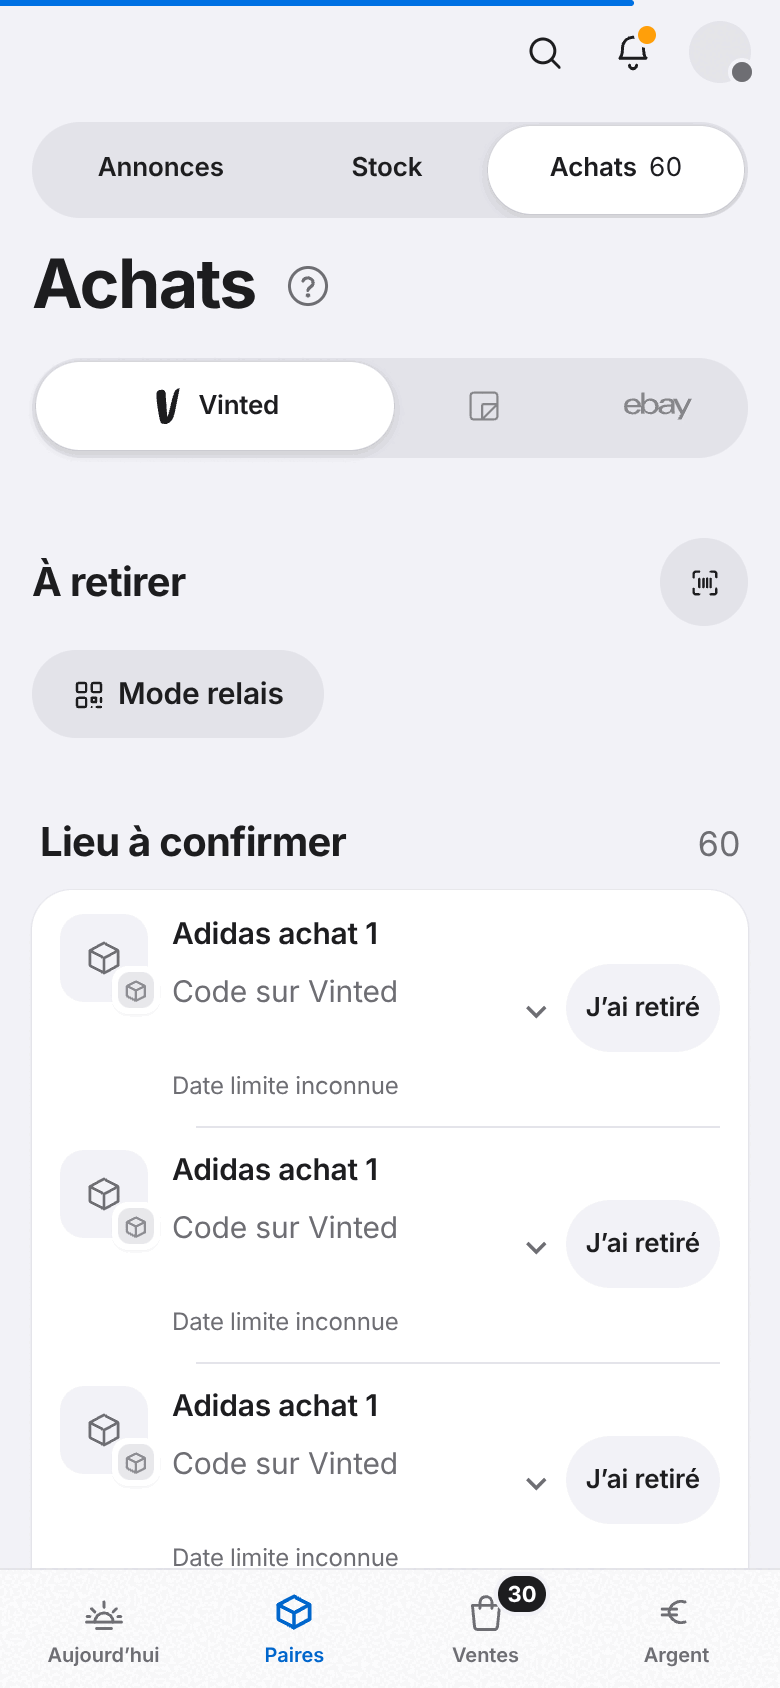
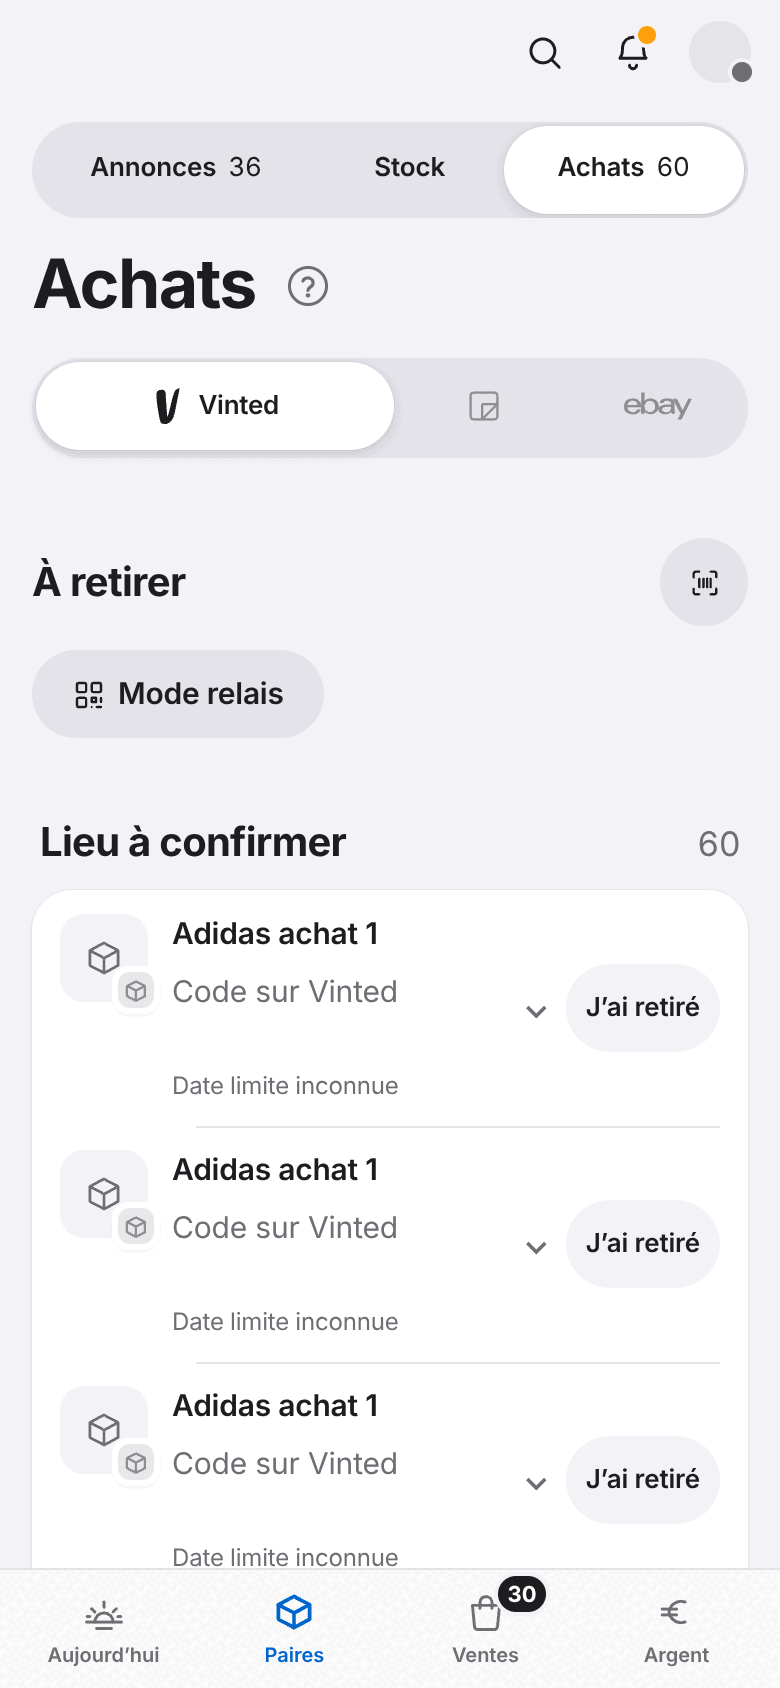
Coque : point ambre de la cloche aussi sur Ma journée ; captures avant/après finales ; récit à jour
Claude-Session: https://claude.ai/code/session_012UsEbcF3XbBnmXpwYyNnbn

diff --git a/src/styles-systeme.css b/src/styles-systeme.css
@@ -657,7 +657,7 @@
   top: 6px !important; left: 24px !important; right: auto !important; box-shadow: 0 0 0 2px var(--vrm-hdr-anneau, var(--vrm-bg, var(--d-fond))) !important;
 }
 
-:root:root body .vrm-app-shell:has(.vrm-main .vrm-fu-journee) > .vrm-app-header .vrm-cn-cloche .vrm-cn-pastille.vrm-cn-pastille { background: #F5F5F7 !important; color: #1D1D1F !important; }   /* sur la barre encre de Ma journée */
+:root:root body .vrm-app-shell:has(.vrm-main .vrm-fu-journee) > .vrm-app-header .vrm-cn-cloche .vrm-cn-pastille.vrm-cn-pastille { background: var(--d-point-ambre) !important; color: #1D1D1F !important; }   /* sur la barre encre de Ma journée : le même point ambre */
 
 :root:root body .vrm-app-shell:has(.vrm-main .vrm-fu-journee) > .vrm-app-header :is(.vrm-hbtn, .vrm-hbtn svg) { color: #F5F5F7 !important; }   /* ☰, cloche, loupe : lisibles sur la barre encre */
 

diff --git a/docs/passation/2026-11-14-refonte-coque.md b/docs/passation/2026-11-14-refonte-coque.md
@@ -69,14 +69,15 @@ Ce qui a changé APRÈS le récit ci-dessus, pour suivre sa maquette (elle gagne
 
 ## Preuves
 - `scripts/bancs/refonte-coque.cjs` : sur origin/main **16 ✅ · 34 ❌** (H1 cinq ronds, H2 petit titre visible
-  et à gauche, H3 pastille encore là après 3 s, H4 « 99+ » bleu, F/N…) ; ici **59 ✅ · 0 ❌** (règles + AJOUT 3 ; machine très chargée — charge 60 — : les attentes du banc lisent l'état, pas un délai fixe).
+  et à gauche, H3 pastille encore là après 3 s, H4 « 99+ » bleu, F/N…) ; ici **règles 50 ✅ · 0 ❌, AJOUT 3 10 ✅ · 0 ❌** (dont Paramètres : « à revoir » jamais au-dessus de son titre) ; le banc attend une page CALME (aucune tâche longue depuis 1,5 s : les ~6 s du démarrage pèsent autant avant qu'après, mesuré) et joue chaque fonction depuis une page neuve.
   Section P (1 000 annonces, `BANC_DIST_AVANT=`) : nœuds DOM 2447 → 2450, CLS 0 → 0, premier rendu et
   défilement dans le bruit. ⚠ La base à 1 000 annonces n'affiche pas les annonces inventées (24 en ligne : la
   ligne `listings` gonflée n'est pas prise par l'écran) — la mesure compare donc l'écran Annonces réel de la
   base de banc, pas 1 000 rangées : à reprendre avec la base du chantier « listes ».
 - Audits verts : traduction, tdz, icones, coherence, variables, composants, violet, rouge-doublon,
   quoi-de-neuf, onglets-a, onglets-d, garde-ecrans. `npm run build` vert.
-- Captures 390 × dsf 2 : `docs/design/avant-apres/coque-*.png`.
+- Captures 390 × dsf 2 : `docs/design/avant-apres/coque-*.png` (achats, ventes-defile, journee, compte en paires avant/après ; cloche et maj après).
+- Revue « Web Interface Guidelines » : focus visible au clavier sur les onglets, les icônes du haut et les rangées du menu ; `touch-action: manipulation` (§3.10).
 
 ## Restes / à savoir
 - Bancs qui touchaient la pastille « V » ou l'onglet « Annonces » de la barre au téléphone : ils passent
